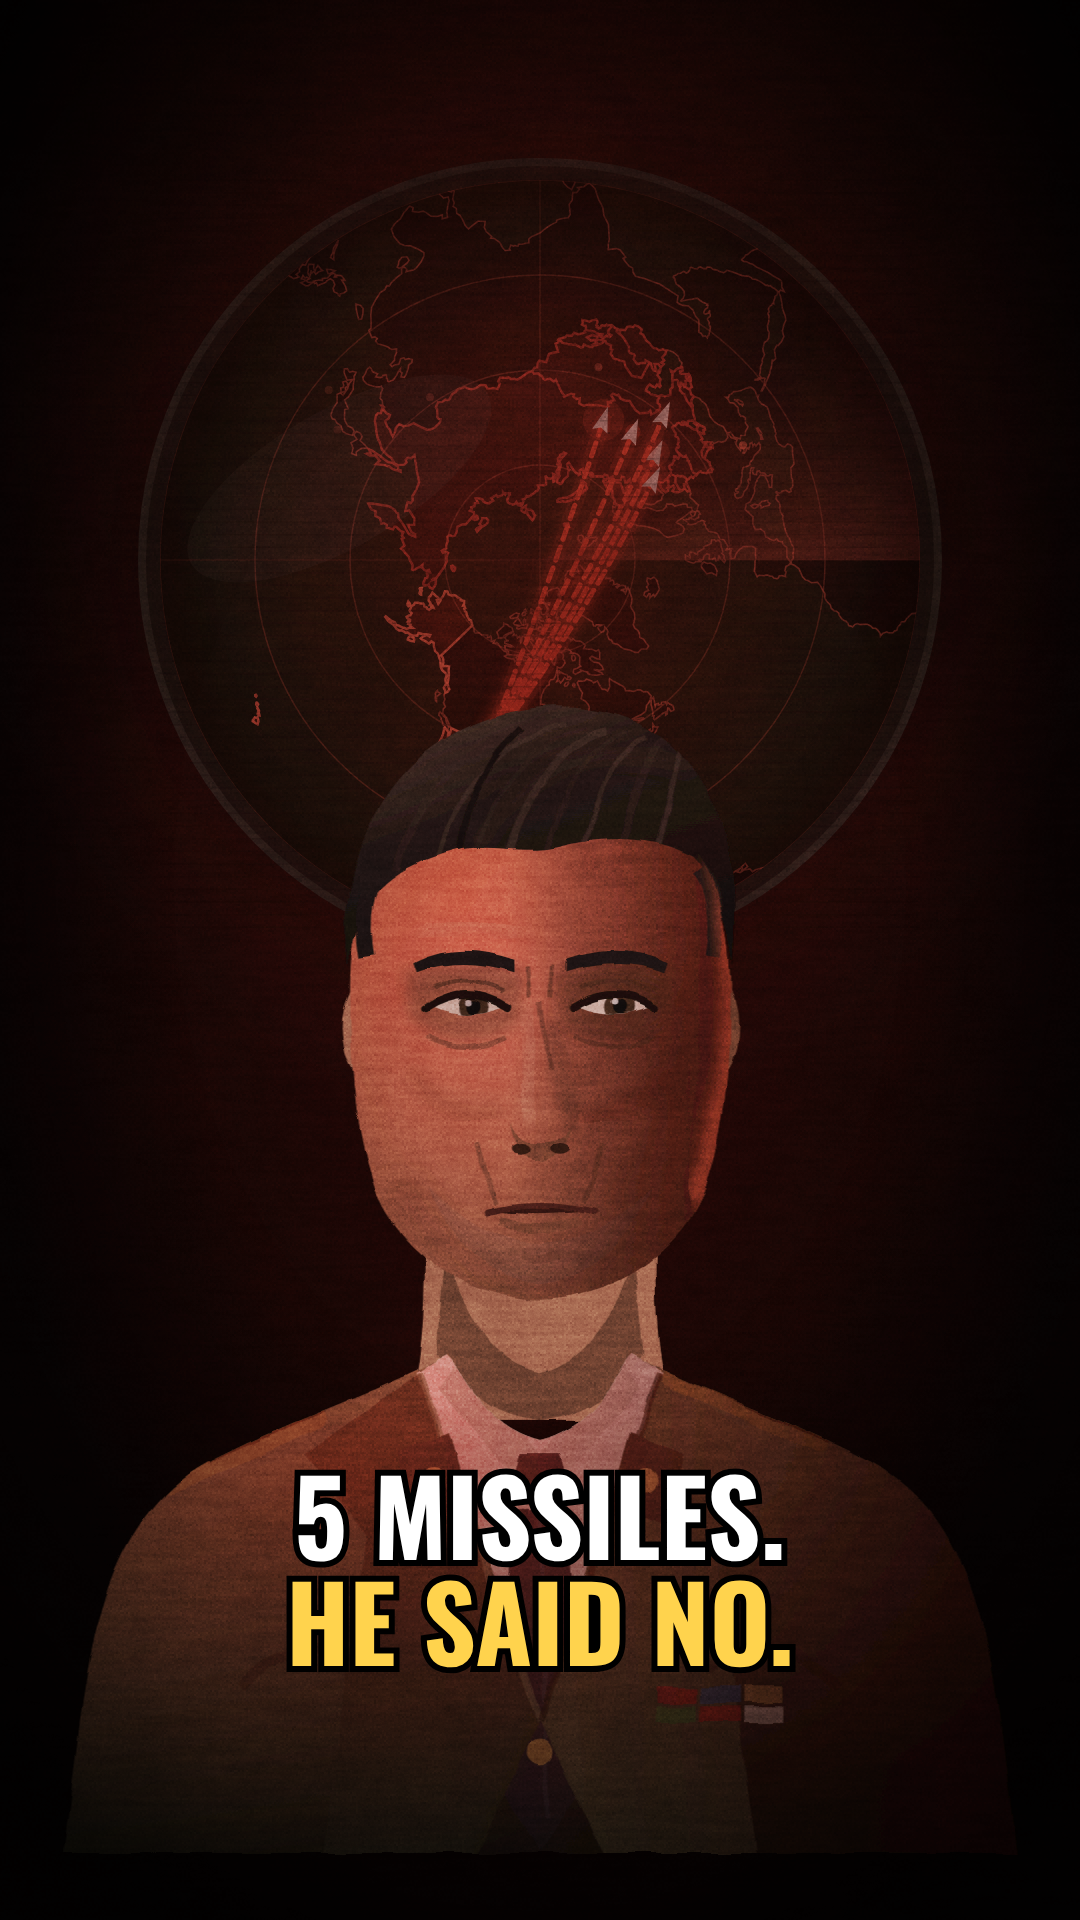
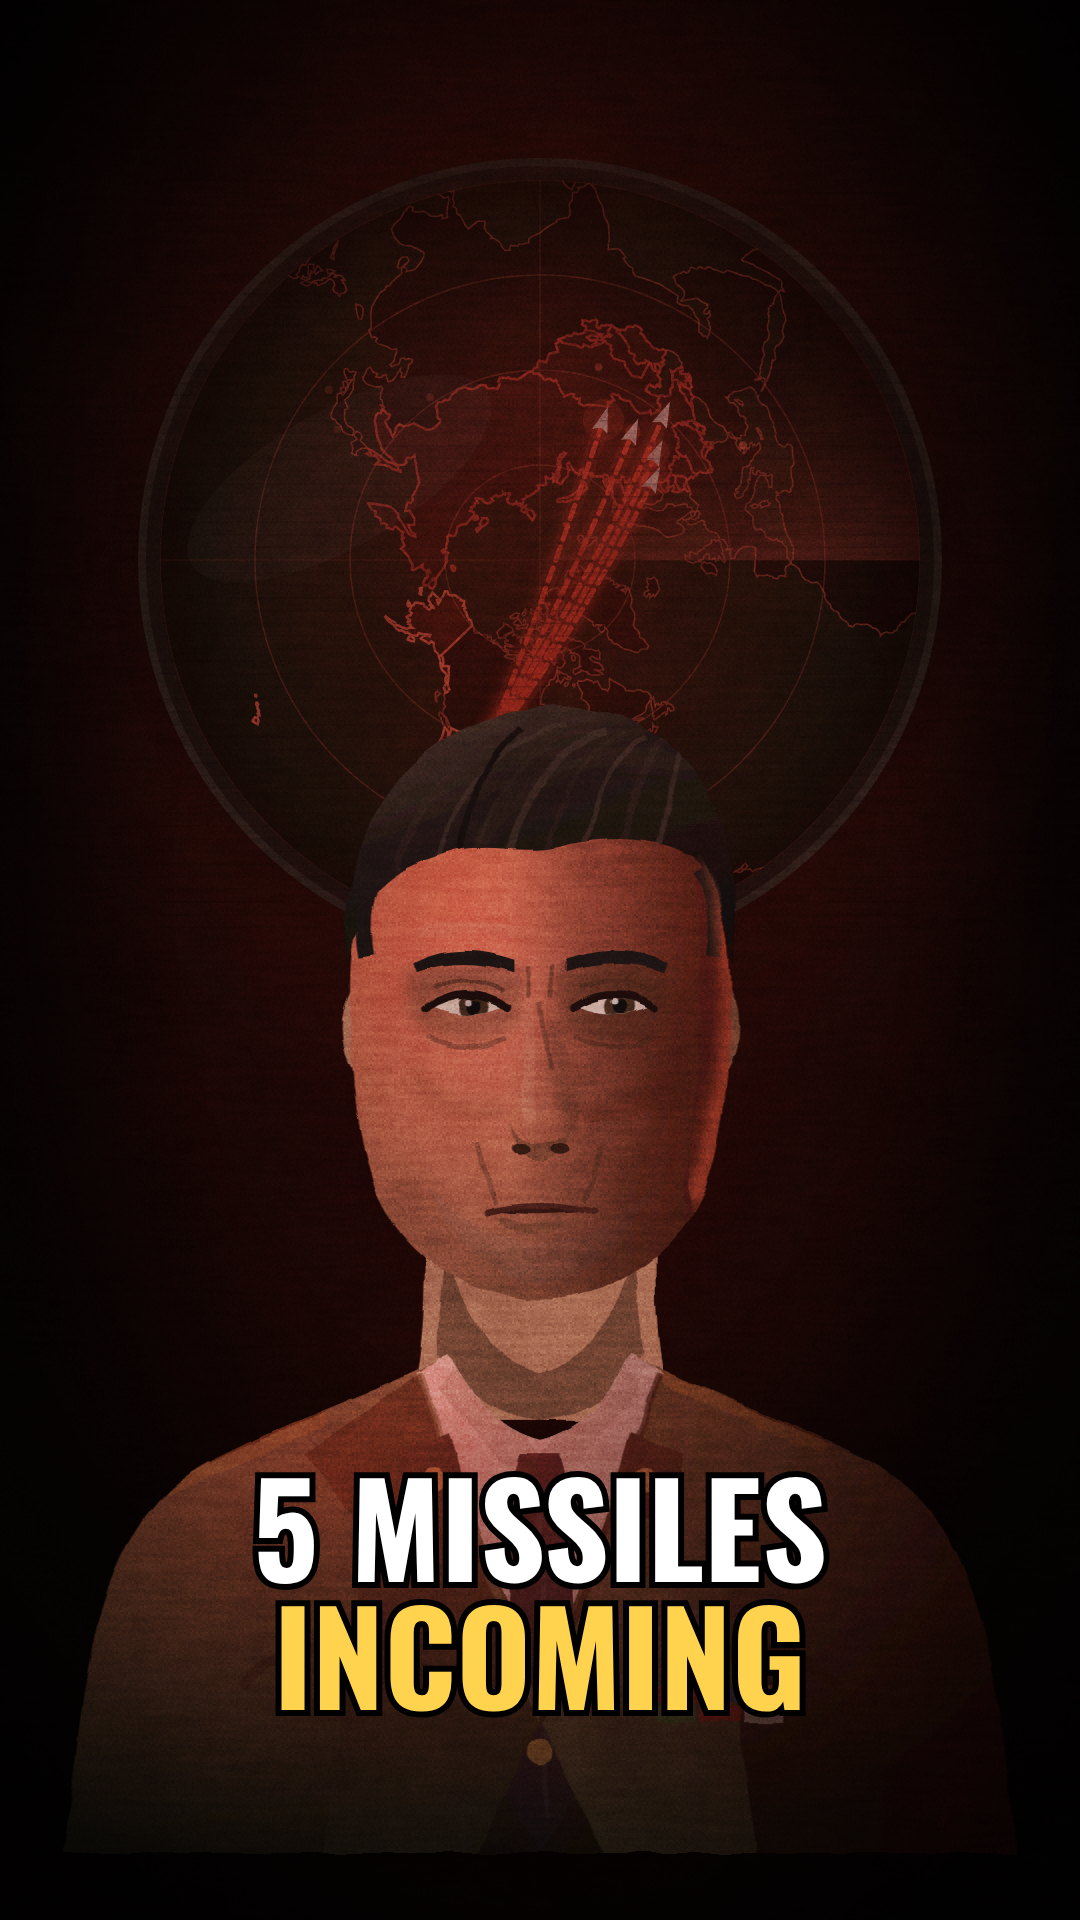
Thumbnail text: 5 MISSILES INCOMING
Claude-Session: https://claude.ai/code/session_01KoUcWc3hJLjvED8SRfaqEb

Changed region(s): [[0.2139, 0.75, 0.7639, 0.9062]]

diff --git a/petrov-documentary/src/Thumbnail.tsx b/petrov-documentary/src/Thumbnail.tsx
@@ -18,8 +18,8 @@ export const Thumbnail: React.FC = () => (
     <EmergencyLights level={0.5} />
     <FilmGrain strength={0.8} />
     <Box x={30} y={1460} w={1020} h={360} style={{ textAlign: 'center' }}>
-      <div style={{ fontFamily: 'Oswald', fontWeight: 700, fontSize: 104, lineHeight: 1.02, color: '#fff', WebkitTextStroke: '12px #000', paintOrder: 'stroke fill', textTransform: 'uppercase' }}>
-        5 Missiles.<br /><span style={{ color: '#ffd34d' }}>He Said No.</span>
+      <div style={{ fontFamily: 'Oswald', fontWeight: 700, fontSize: 128, lineHeight: 1.0, color: '#fff', WebkitTextStroke: '12px #000', paintOrder: 'stroke fill', textTransform: 'uppercase' }}>
+        5 Missiles<br /><span style={{ color: '#ffd34d' }}>Incoming</span>
       </div>
     </Box>
   </AbsoluteFill>
